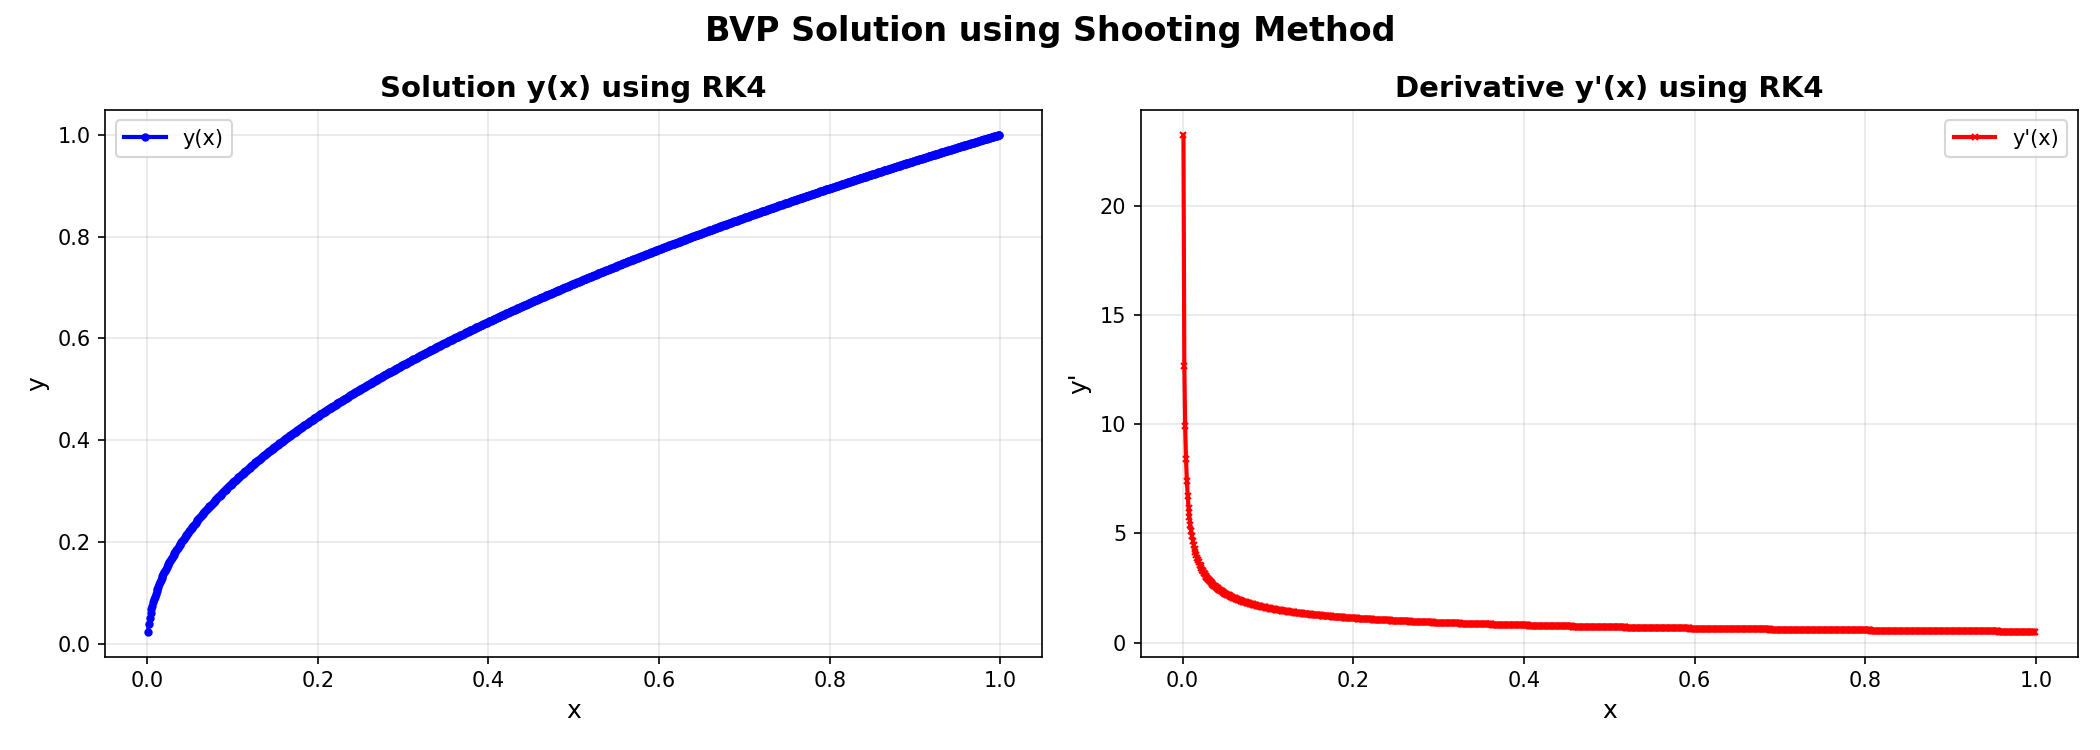
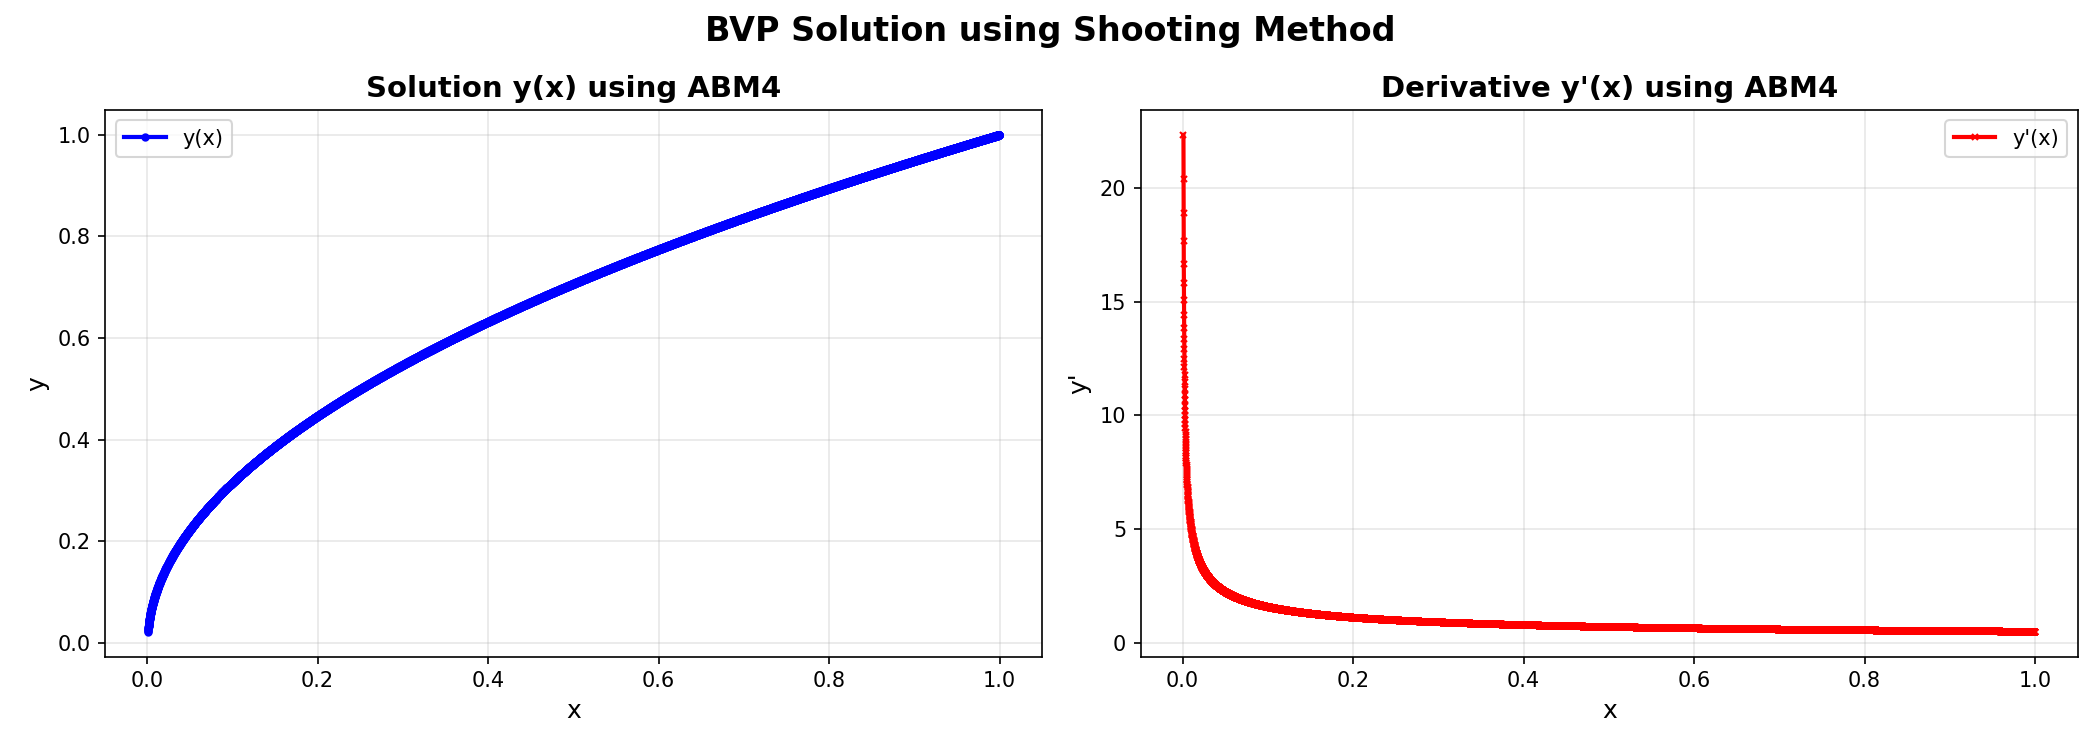
changed input style

diff --git a/Project1/ode_solver/main.py b/Project1/ode_solver/main.py
@@ -9,60 +9,141 @@ from methods.ABM_4 import ABM4
 from analysis.analysis import analysis
 
 print("Welcome to the ODE Solver for Boundary Value Problems (BVPs) using the Shooting Method!")
+
+def parse_func(funcstr):
+    funcstr = funcstr.strip()
+    if funcstr.startswith("["):
+        funcstr = funcstr[1:]
+    if funcstr.endswith("]"):
+        funcstr = funcstr[:-1]
+    
+    funcstr = funcstr.replace("y'", "u[1]").replace("y", "u[0]")
+    return eval("lambda u,x: np.array([" + funcstr + "])")
+
 def getinput():
-    order = int(input("\nEnter the order of the ODE (1 or 2): "))
+    print("\n" + "="*60)
+    print("  ODE INPUT")
+    print("="*60)
+    
+    while True:
+        try:
+            order = int(input("Order of ODE (1 or 2) [default=2]: ") or "2")
+            if order not in [1, 2]:
+                print("Error: Order must be 1 or 2.")
+                continue
+            break
+        except ValueError:
+            print("Error: Please enter a valid integer (1 or 2).")
 
+    print("\nEnter function as: [y', f(y,y',x)]")
+    print("Example: y'' + 2y' + 3y = 0  →  [y', -2*y' - 3*y]")
+    while True:
+        try:
+            funcstr = input("f(u,x) = ")
+            if not funcstr.strip():
+                print("Error: Function cannot be empty.")
+                continue
+            func = parse_func(funcstr)
+            func(np.array([1.0, 1.0]), 0.0)
+            break
+        except Exception as e:
+            print(f"Error: Invalid function. {e}")
 
-    print("\n Enter the function in form of f(u,x) = [u[0],u[1],....,f(u,x)]\n")
-    print("\n For example, for u'' + 2u' + 3u = 0, you can enter: [u[1], -2*u[1] - 3*u[0]]\n")
+    # Domain input
+    print("\n" + "-"*40)
+    print("  DOMAIN")
+    print("-"*40)
+    while True:
+        try:
+            domain = input("x range (start, end, step) [e.g. 0, 1, 0.1]: ")
+            parts = [p.strip() for p in domain.split(",")]
+            if len(parts) != 3:
+                print("Error: Enter exactly 3 values (start, end, step).")
+                continue
+            xstart, xend, h = float(parts[0]), float(parts[1]), float(parts[2])
+            if xend <= xstart:
+                print("Error: end must be greater than start.")
+                continue
+            if h <= 0 or h > (xend - xstart):
+                print("Error: step must be positive and smaller than the range.")
+                continue
+            break
+        except ValueError:
+            print("Error: Please enter valid numbers.")
 
-    funcstr = input("f(u,x) = [")
-    funcstr =funcstr.rstrip("]")
-    func = eval("lambda u,x: np.array([" + funcstr + "])")
+    # Boundary conditions
+    print("\n" + "-"*40)
+    print("  BOUNDARY CONDITIONS (ay + by' + c = 0)")
+    print("-"*40)
+    while True:
+        try:
+            bc_start = input("At x=start (a, b, c) [e.g. 1, 0, -1]: ")
+            parts = [p.strip() for p in bc_start.split(",")]
+            if len(parts) != 3:
+                print("Error: Enter exactly 3 values (a, b, c).")
+                continue
+            a0, b0, c0 = float(parts[0]), float(parts[1]), float(parts[2])
+            if a0 == 0 and b0 == 0:
+                print("Error: a and b cannot both be zero.")
+                continue
+            break
+        except ValueError:
+            print("Error: Please enter valid numbers.")
+    
+    while True:
+        try:
+            bc_end = input("At x=end   (a, b, c) [e.g. 1, 0, -2]: ")
+            parts = [p.strip() for p in bc_end.split(",")]
+            if len(parts) != 3:
+                print("Error: Enter exactly 3 values (a, b, c).")
+                continue
+            a1, b1, c1 = float(parts[0]), float(parts[1]), float(parts[2])
+            if a1 == 0 and b1 == 0:
+                print("Error: a and b cannot both be zero.")
+                continue
+            break
+        except ValueError:
+            print("Error: Please enter valid numbers.")
 
+    # Guesses
+    print("\n" + "-"*40)
+    print("  SHOOTING METHOD")
+    print("-"*40)
+    while True:
+        try:
+            guesses = input("Two initial guesses (g1, g2) [e.g. 0, 1]: ")
+            parts = [p.strip() for p in guesses.split(",")]
+            if len(parts) != 2:
+                print("Error: Enter exactly 2 values.")
+                continue
+            guess1, guess2 = float(parts[0]), float(parts[1])
+            if guess1 == guess2:
+                print("Error: Guesses must be different.")
+                continue
+            break
+        except ValueError:
+            print("Error: Please enter valid numbers.")
 
-    xstart = float(input("Enter the start value of x: "))
-    xend = float(input("Enter the end value of x: "))
-    h = float(input("Enter the step size h: "))
-
-
-    print("\n Enter boundary conditions in the form of ay+by'+c=0:")
-    print("\n At xstart:")
-    a0 = float(input("a: "))
-    b0 = float(input("b: "))
-    c0 = float(input("c: "))
-    print("\n At xend:")
-    a1 = float(input("a: "))
-    b1 = float(input("b: "))
-    c1 = float(input("c: "))
-
-    print('\n give the two guesses for shooting method:')
-    guess1 = float(input("guess 1: "))
-    guess2 = float(input("guess 2: "))
-
-    guess = [guess1, guess2]
-
-    methods = {
-        1: RK4,
-        2: RK2,
-        3: ABM2,
-        4: ABM4
-    }
-
-    print("\n Choose the method to solve the ODE:")
-    print("1. Runge-Kutta 4th order (RK4)")
-    print("2. Runge-Kutta 2nd order (RK2)")
-    print("3. Adams-Bashforth-Moulton 2nd order (ABM2)")
-    print("4. Adams-Bashforth-Moulton 4th order (ABM4)")
-
-    method_choice = int(input("Enter the number corresponding to the method: "))
+    # Method choice
+    print("\nMethods: 1=RK4, 2=RK2, 3=ABM2, 4=ABM4")
+    while True:
+        try:
+            method_choice = int(input("Choose method [default=1]: ") or "1")
+            if method_choice not in [1, 2, 3, 4]:
+                print("Error: Choose 1, 2, 3, or 4.")
+                continue
+            break
+        except ValueError:
+            print("Error: Please enter a valid integer.")
+    
+    methods = {1: RK4, 2: RK2, 3: ABM2, 4: ABM4}
     method = methods.get(method_choice, RK4)
-
+    print("="*60 + "\n")
+    
     return {'order': order, 'func': func, 'xstart': xstart, 'xend': xend, 'h': h,
-            'bc_start': (a0, b0, c0), 'bc_end': (a1, b1, c1), 'guess': guess, 'method': method}
+            'bc_start': (a0, b0, c0), 'bc_end': (a1, b1, c1), 'guess': [guess1, guess2], 'method': method}
 
 def load_from_file(filepath):
-    """Load inputs from a file."""
     methods = {
         1: RK4,
         2: RK2,
@@ -71,7 +152,8 @@ def load_from_file(filepath):
     }
     
     with open(filepath, 'r') as f:
-        lines = [line.strip() for line in f.readlines()]
+        # Skip comment lines starting with #
+        lines = [line.strip() for line in f.readlines() if line.strip() and not line.strip().startswith('#')]
     
     order = int(lines[0])
     funcstr = lines[1]
@@ -79,6 +161,7 @@ def load_from_file(filepath):
         funcstr = funcstr[1:]
     if funcstr.endswith("]"):
         funcstr = funcstr[:-1]
+    funcstr = funcstr.replace("y'", "u[1]").replace("y", "u[0]")
     func = eval("lambda u,x: np.array([" + funcstr + "])")
     xstart = float(lines[2])
     xend = float(lines[3])
@@ -94,7 +177,6 @@ def load_from_file(filepath):
     method_choice = int(lines[13])
     method = methods.get(method_choice, RK4)
     
-    # Store plot preferences for later use
     show_stability = lines[14].lower() == 'y' if len(lines) > 14 else False
     show_convergence = lines[15].lower() == 'y' if len(lines) > 15 else False
     
@@ -213,13 +295,11 @@ if __name__ == "__main__":
         show_stability = input().lower() == 'y'
     if show_stability:
         stability_plots(params)
-    
     if show_convergence is None:
-        show_convergence = input("\nDo you want to see convergence plots? (y/n)").lower() == 'y'
+        show_convergence = input("\nDo you want to see convergence plots? (y/n)\n").lower() == 'y'
     if show_convergence:
-        print("\nGenerating convergence plots...")
+        print("\nGenerating convergence plots...\n")
         convergence_plots(params)
-
 
 
 
